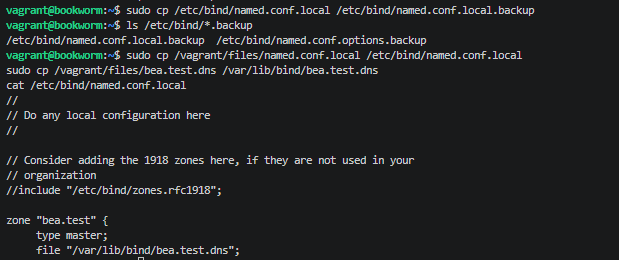
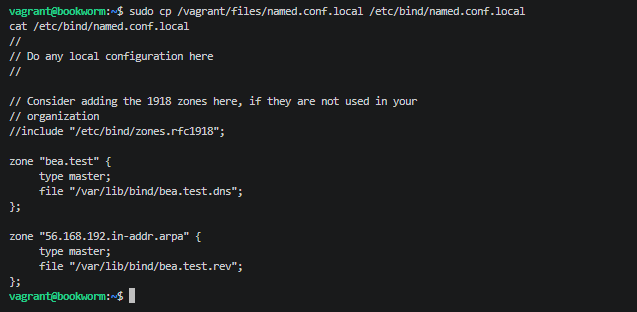
Actualizo la captura de la comprobacion de named.conf.options y comento lo del fichero vacio

Changed region(s): [[0.0, 0.0, 0.8595, 0.4615], [0.0, 0.4923, 0.6753, 1.0]]

diff --git a/doc/README.md b/doc/README.md
@@ -61,6 +61,8 @@ OPTIONS="-u bind -4"
 
 ![default named](img/default-named.png)
 
+Al principio el fichero se copió vacío y Bind arrancaba sin las opciones (en `systemctl status named` salía solo `named -f`). Al corregirlo, arranca con `named -f -u bind -4`.
+
 ### 4.1. Fichero named.conf.options
 
 Antes de modificarlo hago una copia de seguridad:
@@ -125,3 +127,111 @@ Al comprobar la zona, `named-checkzone` me avisó de que el fichero no terminaba
 Después de corregirlo, la zona carga sin avisos y el servicio arranca bien:
 
 ![sin aviso](img/checkzone-directa.png)
+
+### 4.2. Fichero named.conf.local
+
+En este fichero declaro la zona `bea.test`. Indico que mi servidor DNS es el maestro de la zona y dónde estará su archivo de zona. Antes hago una copia de seguridad:
+
+```
+sudo cp /etc/bind/named.conf.local /etc/bind/named.conf.local.backup
+```
+
+```
+zone "bea.test" {
+     type master;
+     file "/var/lib/bind/bea.test.dns";
+};
+```
+
+### 4.3. Archivo de zona de resolución directa
+
+Creo el archivo de zona `/var/lib/bind/bea.test.dns`:
+
+```
+;
+; bea.test
+;
+$TTL    86400
+@       IN      SOA     debian.bea.test. admin.bea.test. (
+                        2026102301      ; Serial
+                        3600            ; Refresh
+                        1800            ; Retry
+                        604800          ; Expire
+                        86400 )         ; Negative Cache TTL
+;
+@                IN      NS      debian.bea.test.
+debian.bea.test. IN      A       192.168.56.10
+```
+
+![zona directa](img/zona-directa.png)
+
+El registro SOA da los datos de la zona autoritativa, el NS indica el servidor DNS de la zona y el A asocia el nombre `debian.bea.test` a su IP. El serial usa el formato AñoMesDíaVersión.
+
+Al comprobar la zona, `named-checkzone` me avisó de que el fichero no terminaba con un salto de línea (`file does not end with newline`). No es un error y la zona cargaba, pero lo corregí añadiendo una línea final al fichero:
+
+![aviso](img/checkzone-directa-aviso.png)
+
+Después de corregirlo, la zona carga sin avisos y el servicio arranca bien:
+
+![sin aviso](img/checkzone-directa.png)
+
+### 4.4. Zona para la resolución inversa
+
+Añado la zona inversa en `named.conf.local`. Su nombre es el tercer byte de mi red al revés, 56.168.192.in-addr.arpa:
+
+```
+zone "56.168.192.in-addr.arpa" {
+     type master;
+     file "/var/lib/bind/bea.test.rev";
+};
+```
+
+Al reiniciar Bind, el servicio no arrancó. El registro indicaba que la zona `bea.test` estaba definida dos veces en `named.conf.local`: al añadir la zona inversa había dejado el nombre de la zona directa en la segunda declaración.
+
+![error zona duplicada](img/error-zona-duplicada.png)
+
+Corregí el nombre de la segunda zona y el servicio arrancó. El fichero queda con las dos zonas:
+
+![named.conf.local](img/named-conf-local.png)
+
+Creo el archivo de zona inversa `/var/lib/bind/bea.test.rev`. El registro PTR asocia el último octeto de la IP (10) con el nombre del servidor:
+
+```
+;
+; 56.168.192
+;
+$TTL    86400
+@       IN      SOA     debian.bea.test. admin.bea.test. (
+                        2026102301      ; Serial
+                        3600            ; Refresh
+                        1800            ; Retry
+                        604800          ; Expire
+                        86400 )         ; Negative Cache TTL
+;
+@       IN      NS      debian.bea.test.
+10      IN      PTR     debian.bea.test.
+```
+
+![zona inversa](img/zona-inversa.png)
+
+### 4.5. Comprobación de las configuraciones
+
+Compruebo las dos zonas, reinicio el servicio y miro su estado:
+
+```
+named-checkzone bea.test. /var/lib/bind/bea.test.dns
+named-checkzone 56.168.192.in-addr.arpa. /var/lib/bind/bea.test.rev
+sudo named-checkconf
+sudo systemctl restart named
+systemctl status named
+```
+
+![comprobacion zonas](img/checkzone-inversa.png)
+
+En el registro de Bind se ve que las dos zonas se han cargado con el serial 2026102301:
+
+```
+sudo journalctl -u named -n 20 --no-pager
+```
+
+![log zonas](img/log-zonas.png)
